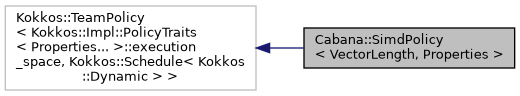
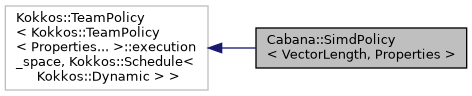
Documentation Update

Changed region(s): [[0.0297, 0.0312, 1.0, 0.9688], [0.0593, 0.7188, 0.3856, 0.875]]

diff --git a/doxygen/classCabana_1_1SimdPolicy.html b/doxygen/classCabana_1_1SimdPolicy.html
@@ -84,8 +84,8 @@ Inheritance diagram for Cabana::SimdPolicy&lt; VectorLength, Properties &gt;:</d
 <div class="dyncontent">
 <div class="center"><img src="classCabana_1_1SimdPolicy__inherit__graph.png" border="0" usemap="#aCabana_1_1SimdPolicy_3_01VectorLength_00_01Properties_01_4_inherit__map" alt="Inheritance graph"/></div>
 <map name="aCabana_1_1SimdPolicy_3_01VectorLength_00_01Properties_01_4_inherit__map" id="aCabana_1_1SimdPolicy_3_01VectorLength_00_01Properties_01_4_inherit__map">
-<area shape="rect" title="Execution policy over a range of 2d indices." alt="" coords="304,27,515,69"/>
-<area shape="rect" title=" " alt="" coords="5,5,256,91"/>
+<area shape="rect" title="Execution policy over a range of 2d indices." alt="" coords="256,27,467,69"/>
+<area shape="rect" title=" " alt="" coords="5,5,208,91"/>
 </map>
 <center><span class="legend">[<a href="graph_legend.html">legend</a>]</span></center></div>
 <div class="dynheader">
@@ -93,8 +93,8 @@ Collaboration diagram for Cabana::SimdPolicy&lt; VectorLength, Properties &gt;:<
 <div class="dyncontent">
 <div class="center"><img src="classCabana_1_1SimdPolicy__coll__graph.png" border="0" usemap="#aCabana_1_1SimdPolicy_3_01VectorLength_00_01Properties_01_4_coll__map" alt="Collaboration graph"/></div>
 <map name="aCabana_1_1SimdPolicy_3_01VectorLength_00_01Properties_01_4_coll__map" id="aCabana_1_1SimdPolicy_3_01VectorLength_00_01Properties_01_4_coll__map">
-<area shape="rect" title="Execution policy over a range of 2d indices." alt="" coords="304,27,515,69"/>
-<area shape="rect" title=" " alt="" coords="5,5,256,91"/>
+<area shape="rect" title="Execution policy over a range of 2d indices." alt="" coords="256,27,467,69"/>
+<area shape="rect" title=" " alt="" coords="5,5,208,91"/>
 </map>
 <center><span class="legend">[<a href="graph_legend.html">legend</a>]</span></center></div>
 <table class="memberdecls">
@@ -189,7 +189,7 @@ template&lt;int VectorLength, class... Properties&gt; </div>
 <p>Range constructor. </p>
 <dl class="params"><dt>Parameters</dt><dd>
   <table class="params">
-    <tr><td class="paramname">begin</td><td>The begininning of the 1D range. This will be decomposed into 2D indices. </td></tr>
+    <tr><td class="paramname">begin</td><td>The beginning of the 1D range. This will be decomposed into 2D indices. </td></tr>
     <tr><td class="paramname">end</td><td>The ending of the 1D range. This will be decomposed into 2D indices. </td></tr>
   </table>
   </dd>

diff --git a/doxygen/Cabana__ExecutionPolicy_8hpp_source.html b/doxygen/Cabana__ExecutionPolicy_8hpp_source.html
@@ -133,11 +133,11 @@ $(function() {
 <div class="line"><a name="l00079"></a><span class="lineno">   79</span>&#160;<span class="comment"></span><span class="keyword">template</span> &lt;<span class="keywordtype">int</span> VectorLength, <span class="keyword">class</span>... Properties&gt;</div>
 <div class="line"><a name="l00080"></a><span class="lineno"><a class="line" href="classCabana_1_1SimdPolicy.html">   80</a></span>&#160;<span class="keyword">class </span><a class="code" href="classCabana_1_1SimdPolicy.html">SimdPolicy</a></div>
 <div class="line"><a name="l00081"></a><span class="lineno">   81</span>&#160;    : <span class="keyword">public</span> Kokkos::TeamPolicy&lt;</div>
-<div class="line"><a name="l00082"></a><span class="lineno">   82</span>&#160;          typename Kokkos::Impl::PolicyTraits&lt;Properties...&gt;::execution_space,</div>
+<div class="line"><a name="l00082"></a><span class="lineno">   82</span>&#160;          typename Kokkos::TeamPolicy&lt;Properties...&gt;::execution_space,</div>
 <div class="line"><a name="l00083"></a><span class="lineno">   83</span>&#160;          Kokkos::Schedule&lt;Kokkos::Dynamic&gt;&gt;</div>
 <div class="line"><a name="l00084"></a><span class="lineno">   84</span>&#160;{</div>
 <div class="line"><a name="l00085"></a><span class="lineno">   85</span>&#160;  <span class="keyword">private</span>:</div>
-<div class="line"><a name="l00086"></a><span class="lineno">   86</span>&#160;    <span class="keyword">typedef</span> Kokkos::Impl::PolicyTraits&lt;Properties...&gt; traits;</div>
+<div class="line"><a name="l00086"></a><span class="lineno">   86</span>&#160;    <span class="keyword">using</span> traits = Kokkos::TeamPolicy&lt;Properties...&gt;;</div>
 <div class="line"><a name="l00087"></a><span class="lineno">   87</span>&#160; </div>
 <div class="line"><a name="l00088"></a><span class="lineno">   88</span>&#160;  <span class="keyword">public</span>:</div>
 <div class="line"><a name="l00090"></a><span class="lineno"><a class="line" href="classCabana_1_1SimdPolicy.html#a032ee58dc32b6d3f9698d498da5bc87b">   90</a></span>&#160;    <span class="keyword">using</span> <a class="code" href="classCabana_1_1SimdPolicy.html#a032ee58dc32b6d3f9698d498da5bc87b">work_tag</a> = <span class="keyword">typename</span> traits::work_tag;</div>
